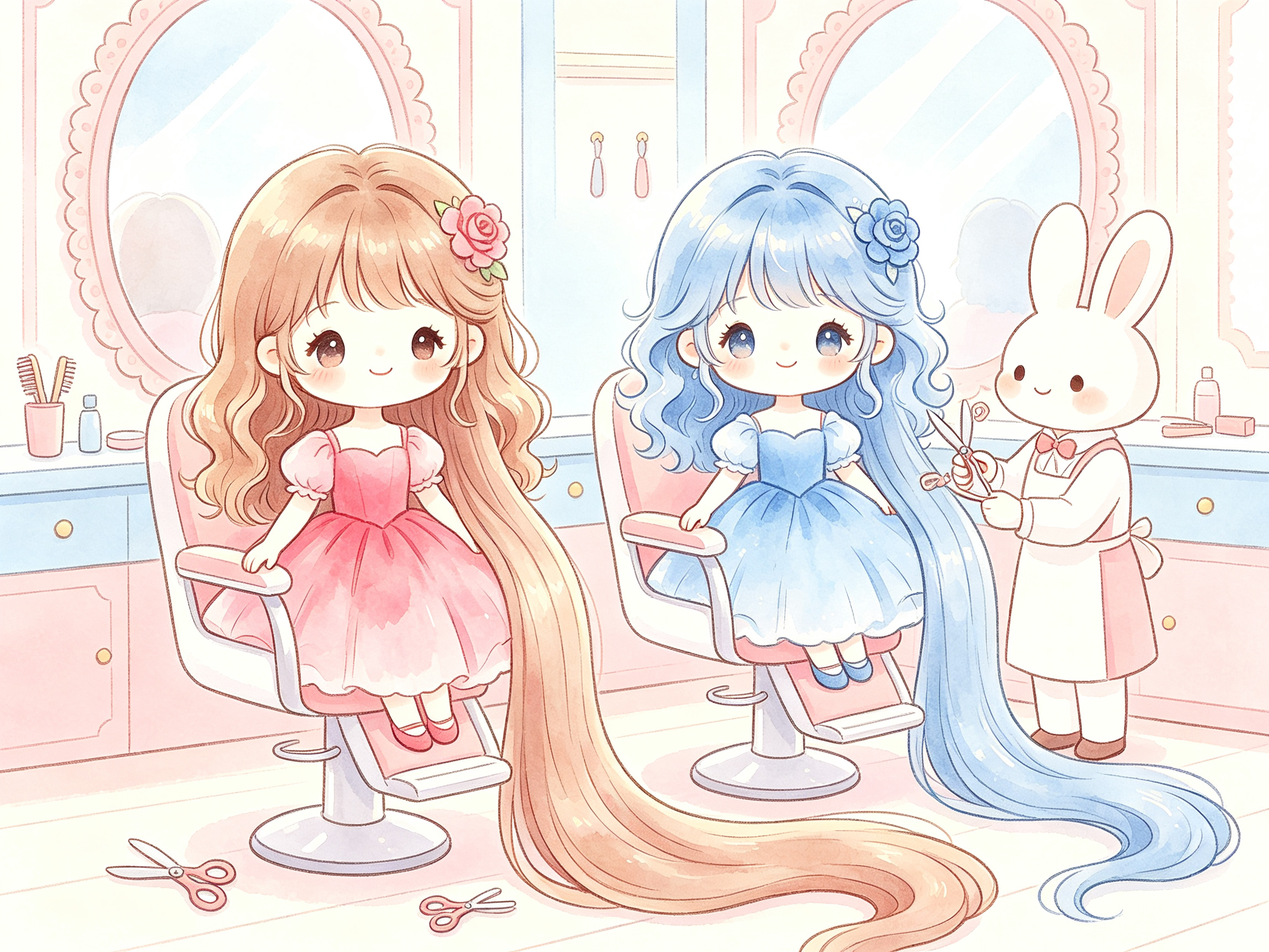
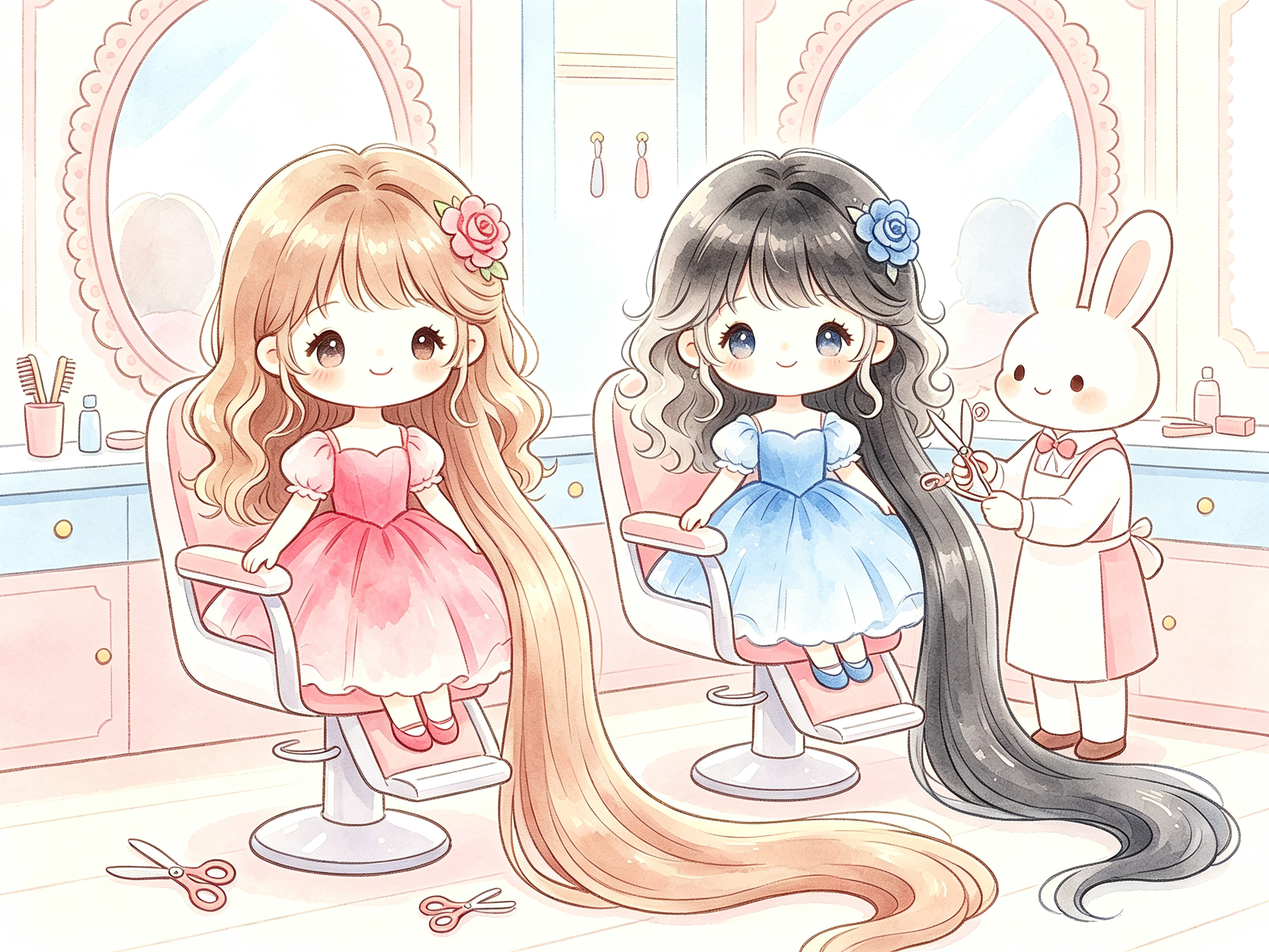
重新调整rose-ep03的配图

diff --git a/series/rose-princess/ep03-haircut/prompts.md b/series/rose-princess/ep03-haircut/prompts.md
@@ -35,8 +35,8 @@
 > 本册只做「超长拖地」的夸张处理；结局剪成「及肩长发」（仍在长发范畴），
 > 不违反圣经「禁止短发」的角色锁定。
 >
-> **2026-09-13 形象调整：** 玫瑰公主发色已改为**浅黑色软卷发**（原蓝色软卷发）。
-> 本册配图生成时仍为旧蓝发形象；若重渲，角色固定段请用圣经最新版，勿沿用下文旧 Prompt 中的「蓝色软卷发」。
+> **2026-09-13 形象调整：** 玫瑰公主发色已改为**浅黑色软卷发**（原浅黑色软卷发）。
+> 本册配图已按新形象重渲，下文 Prompt 均已同步更新；重渲时挂 `../refs/blue-rose-princess-*.jpg` 新参考图。
 
 ## 三、逐页内容与配图 Prompt（最终版）
 
@@ -48,7 +48,7 @@
 
 **配图 Prompt**：
 ```
-儿童绘本插画封面，马卡龙柔和色系，水彩晕染画风。梦幻的百花城堡花园，粉蓝渐变天空飘着软糯白云，远处是奶油色尖顶城堡。画面中心是两位Q版小公主：浅棕色微卷长发、头戴粉色小花发饰、穿粉红色蓬蓬公主裙的蔷薇公主（姐姐），蓝色软卷发、头戴蓝色小花发饰、穿蓝色蓬蓬公主裙的玫瑰公主（妹妹），姐妹俩开心地甩起各自超级长的头发，头发像小披风一样拖到草地上。画面上方有圆润卡通艺术字“超长头发大捣乱”。线条圆润无棱角，光影温柔，高清适合打印。
+儿童绘本插画封面，马卡龙柔和色系，水彩晕染画风。梦幻的百花城堡花园，粉蓝渐变天空飘着软糯白云，远处是奶油色尖顶城堡。画面中心是两位Q版小公主：浅棕色微卷长发、头戴粉色小花发饰、穿粉红色蓬蓬公主裙的蔷薇公主（姐姐），浅黑色软卷发、头戴蓝色小花发饰、穿蓝色蓬蓬公主裙的玫瑰公主（妹妹），姐妹俩开心地甩起各自超级长的头发，头发像小披风一样拖到草地上。画面上方有圆润卡通艺术字“超长头发大捣乱”。线条圆润无棱角，光影温柔，高清适合打印。
 ```
 
 ---
@@ -59,7 +59,7 @@
 
 **配图 Prompt**：
 ```
-儿童绘本插画，马卡龙柔和色系，水彩晕染画风。百花城堡花园小路上，穿粉红色蓬蓬公主裙、浅棕色微卷长发、头戴粉色小花发饰的蔷薇公主走路时不小心踩到自己拖地的超长头发，差点绊倒，表情慌张；穿蓝色蓬蓬公主裙、蓝色软卷发、头戴蓝色小花发饰的玫瑰公主跑起来被自己的超长蓝发绊到脚，两人头发都长到拖地。旁边站着正常华丽人形形象的国王（深红色镶金王袍、金色王冠、慈祥面容）和王后（淡紫色优雅长裙礼服、金色小皇冠、温柔面容），微笑地看着姐妹俩。线条圆润无棱角，光影温柔，高清适合打印。
+儿童绘本插画，马卡龙柔和色系，水彩晕染画风。百花城堡花园小路上，穿粉红色蓬蓬公主裙、浅棕色微卷长发、头戴粉色小花发饰的蔷薇公主走路时不小心踩到自己拖地的超长头发，差点绊倒，表情慌张；穿蓝色蓬蓬公主裙、浅黑色软卷发、头戴蓝色小花发饰的玫瑰公主跑起来被自己的超长黑发绊到脚，两人头发都长到拖地。旁边站着正常华丽人形形象的国王（深红色镶金王袍、金色王冠、慈祥面容）和王后（淡紫色优雅长裙礼服、金色小皇冠、温柔面容），微笑地看着姐妹俩。线条圆润无棱角，光影温柔，高清适合打印。
 ```
 
 ---
@@ -70,7 +70,7 @@
 
 **配图 Prompt**：
 ```
-儿童绘本插画，马卡龙柔和色系，水彩晕染画风。香香的花园理发店内，粉蓝色装饰，有镜子、小梳子、小剪刀。两位Q版小公主乖乖坐在高高的理发椅上：浅棕色微卷长发、头戴粉色小花发饰、穿粉红色蓬蓬公主裙的蔷薇公主（姐姐）；蓝色软卷发、头戴蓝色小花发饰、穿蓝色蓬蓬公主裙的玫瑰公主（妹妹），她们超级长的头发垂下来拖到地板上，像一条长长的瀑布。旁边站着可爱的兔子造型理发师，拿着小剪刀和小梳子，准备帮她们剪头发。线条圆润无棱角，光影温柔，高清适合打印。
+儿童绘本插画，马卡龙柔和色系，水彩晕染画风。香香的花园理发店内，粉蓝色装饰，有镜子、小梳子、小剪刀。两位Q版小公主乖乖坐在高高的理发椅上：浅棕色微卷长发、头戴粉色小花发饰、穿粉红色蓬蓬公主裙的蔷薇公主（姐姐）；浅黑色软卷发、头戴蓝色小花发饰、穿蓝色蓬蓬公主裙的玫瑰公主（妹妹），她们超级长的头发垂下来拖到地板上，像一条长长的瀑布。旁边站着可爱的兔子造型理发师，拿着小剪刀和小梳子，准备帮她们剪头发。线条圆润无棱角，光影温柔，高清适合打印。
 ```
 
 ---
@@ -81,7 +81,7 @@
 
 **配图 Prompt**：
 ```
-儿童绘本插画，马卡龙柔和色系，水彩晕染画风。花园理发店内，一只软萌可爱的云朵状小妖怪（白色毛茸茸云朵身体、圆圆大眼睛、蓝色小脸、带小翅膀，笑容顽皮，不恐怖）鼓起腮帮子呼呼吹起一阵调皮的大风，把穿粉红色蓬蓬公主裙、浅棕色微卷长发的蔷薇公主和穿蓝色蓬蓬公主裙、蓝色软卷发的玫瑰公主的超长头发吹得满天飘起来，两位公主惊讶地捂着头发。理发师也惊讶地看着。画面有趣不吓人。线条圆润无棱角，光影温柔，高清适合打印。
+儿童绘本插画，马卡龙柔和色系，水彩晕染画风。花园理发店内，一只软萌可爱的云朵状小妖怪（白色毛茸茸云朵身体、圆圆大眼睛、蓝色小脸、带小翅膀，笑容顽皮，不恐怖）鼓起腮帮子呼呼吹起一阵调皮的大风，把穿粉红色蓬蓬公主裙、浅棕色微卷长发的蔷薇公主和穿蓝色蓬蓬公主裙、浅黑色软卷发的玫瑰公主的超长头发吹得满天飘起来，两位公主惊讶地捂着头发。理发师也惊讶地看着。画面有趣不吓人。线条圆润无棱角，光影温柔，高清适合打印。
 ```
 
 ---
@@ -103,7 +103,7 @@
 
 **配图 Prompt**：
 ```
-儿童绘本插画，马卡龙柔和色系，水彩晕染画风。暖黄色的城堡大厅，拱形窗。穿粉红色蓬蓬公主裙、浅棕色微卷长发、头戴粉色小花发饰的蔷薇公主和穿蓝色蓬蓬公主裙、蓝色软卷发、头戴蓝色小花发饰的玫瑰公主手拉手跑进门来，头发被风吹得有点乱，表情着急，张开小嘴大声呼喊。前方站着正常华丽人形形象的国王（深红色镶金王袍、金色王冠、慈祥面容）和王后（淡紫色优雅长裙礼服、金色小皇冠、温柔面容），弯腰关切地看着她们。线条圆润无棱角，光影温柔，高清适合打印。
+儿童绘本插画，马卡龙柔和色系，水彩晕染画风。暖黄色的城堡大厅，拱形窗。穿粉红色蓬蓬公主裙、浅棕色微卷长发、头戴粉色小花发饰的蔷薇公主和穿蓝色蓬蓬公主裙、浅黑色软卷发、头戴蓝色小花发饰的玫瑰公主手拉手跑进门来，头发被风吹得有点乱，表情着急，张开小嘴大声呼喊。前方站着正常华丽人形形象的国王（深红色镶金王袍、金色王冠、慈祥面容）和王后（淡紫色优雅长裙礼服、金色小皇冠、温柔面容），弯腰关切地看着她们。线条圆润无棱角，光影温柔，高清适合打印。
 ```
 
 ---
@@ -125,7 +125,7 @@
 
 **配图 Prompt**：
 ```
-儿童绘本插画，马卡龙柔和色系，水彩晕染画风。花园理发店内，软萌的云朵状小妖怪（白色毛茸茸身体、圆圆大眼睛、蓝色小脸、带小翅膀）不好意思地低着头，两只小爪子捧着一块小饼干。旁边穿粉红色蓬蓬公主裙、浅棕色微卷长发的蔷薇公主和穿蓝色蓬蓬公主裙、蓝色软卷发的玫瑰公主笑着看它。兔子理发师拿着小剪刀咔嚓咔嚓，把拖到地上的超长头发修剪成清爽及肩的漂亮长发。地上掉落着剪下的长发。画面温馨可爱。线条圆润无棱角，光影温柔，高清适合打印。
+儿童绘本插画，马卡龙柔和色系，水彩晕染画风。花园理发店内，软萌的云朵状小妖怪（白色毛茸茸身体、圆圆大眼睛、蓝色小脸、带小翅膀）不好意思地低着头，两只小爪子捧着一块小饼干。旁边穿粉红色蓬蓬公主裙、浅棕色微卷长发的蔷薇公主和穿蓝色蓬蓬公主裙、浅黑色软卷发的玫瑰公主笑着看它。兔子理发师拿着小剪刀咔嚓咔嚓，把拖到地上的超长头发修剪成清爽及肩的漂亮长发。地上掉落着剪下的长发。画面温馨可爱。线条圆润无棱角，光影温柔，高清适合打印。
 ```
 
 ---
